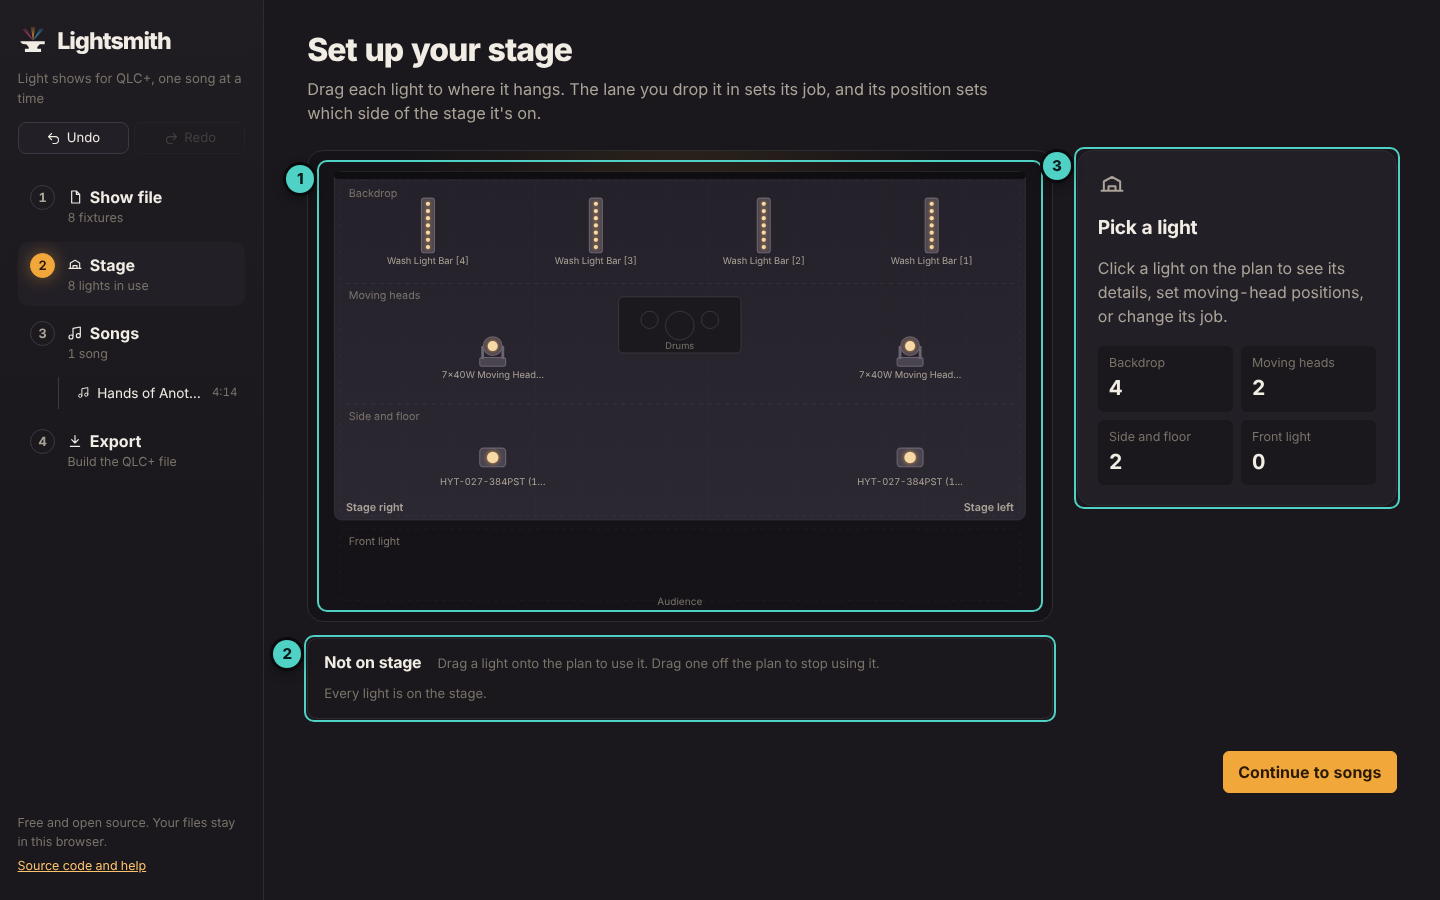
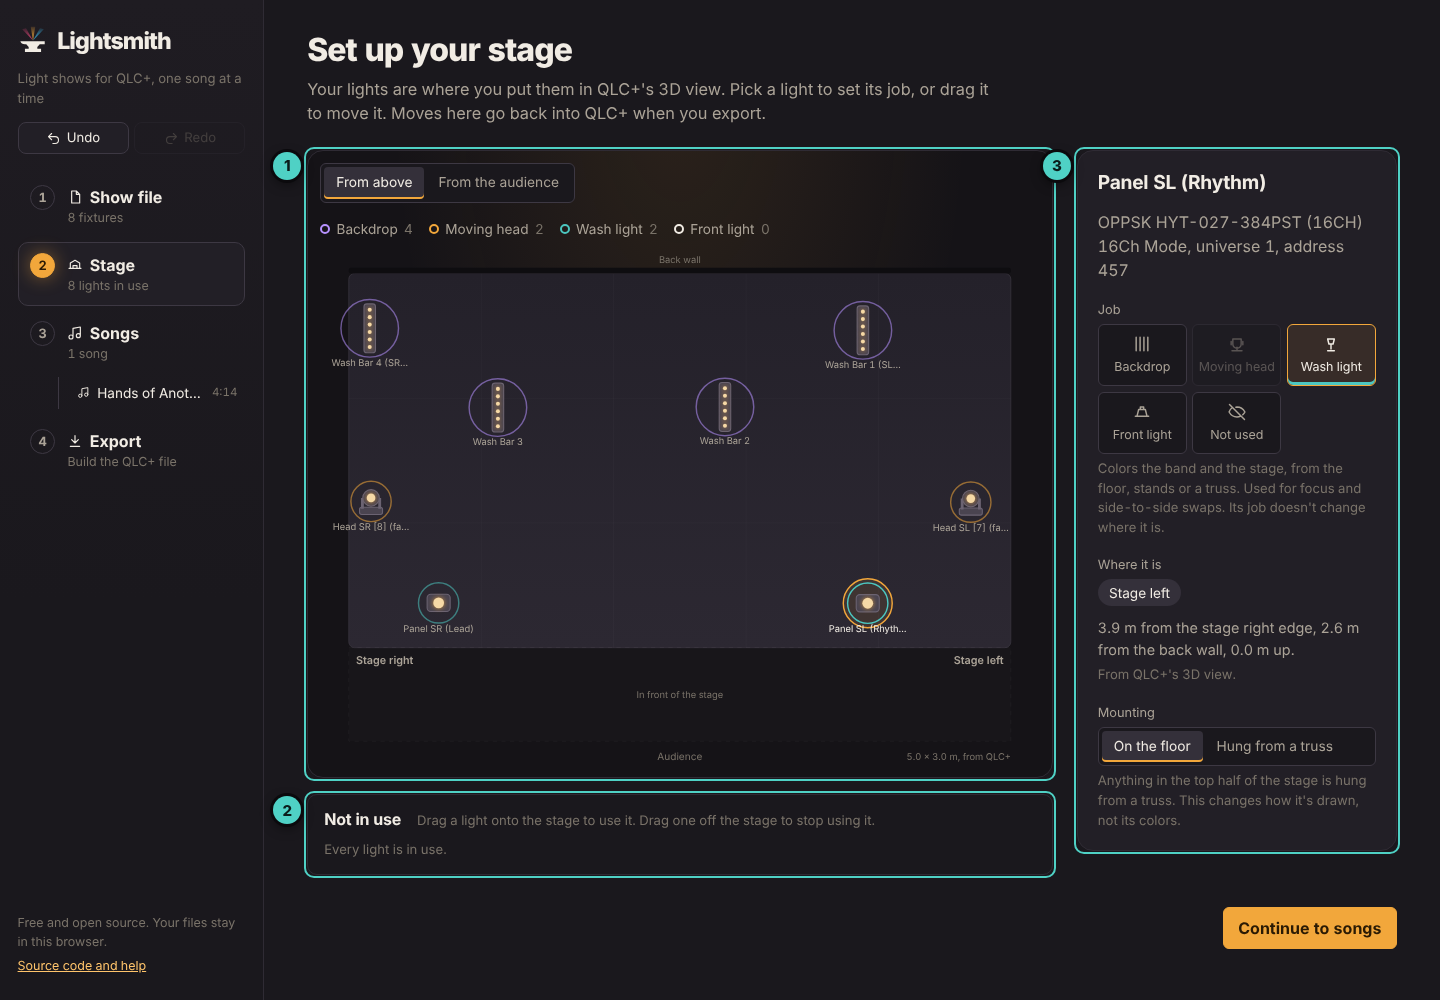
Course: the Stage page now copies QLC+'s 3D view
Updates the syllabus (data model, Show file, Stage and preview chapters)
and Chapter 1's Stage page description and screenshot. Also moves the
Stage right/left labels off the stage so they don't cover lights.

Claude-Session: https://claude.ai/code/session_011s6xTq7Q8K7Dc7AUzx6B84

diff --git a/src/ui/StagePage.tsx b/src/ui/StagePage.tsx
@@ -227,10 +227,10 @@ export function StagePage({ store, onNext }: { store: Store; onNext: () => void 
                   <text className="plan-note" x={VW / 2} y={TOP + DH + (DH * APRON) / 2 + 5}>
                     In front of the stage
                   </text>
-                  <text className="plan-side" x={MX + 10} y={TOP + DH - 12}>
+                  <text className="plan-side" x={MX + 10} y={TOP + DH + 22}>
                     Stage right
                   </text>
-                  <text className="plan-side" x={MX + DW - 10} y={TOP + DH - 12} textAnchor="end">
+                  <text className="plan-side" x={MX + DW - 10} y={TOP + DH + 22} textAnchor="end">
                     Stage left
                   </text>
                   <text className="plan-audience" x={VW / 2} y={ABOVE_VH - 8}>

diff --git a/course/00-syllabus.md b/course/00-syllabus.md
@@ -70,7 +70,7 @@ flowchart LR
 | 10. Store | Sequence: a click → `change()` → undo history → save; state diagram of undo with gestures |
 | 11. XML toolkit | XML text → token stream → element tree → text again |
 | 12. Show file | Annotated page screenshot; flowchart of `addFiles` routing each file type; how a fixture becomes a profile |
-| 13–14. Stage | Annotated page screenshot; how lanes and positions become roles, sides and order; sequence of a drag |
+| 13–14. Stage | Annotated page screenshot; how QLC+'s 3D view becomes positions, sides and order; job versus place; sequence of a drag |
 | 15–21. Songs | Annotated screenshot for each section; component tree of the Songs page; timeline resize and playback sequences; how a section's settings flow into the preview |
 | 22. Export | Annotated page screenshot; flowchart of `generateSong`; which QLC+ functions one section becomes; where the Virtual Console frame is placed |
 | 23. Deploying | The GitHub Actions pipeline, from push to live site |
@@ -284,7 +284,7 @@ flowchart LR
 - Presets as data tables: moods, colors, patterns, movements, effects, section types and song templates. Adding a choice without touching logic.
 - Defaults: `newSection`, `newSong`, `sectionsFromTemplate`, and the "works on any rig" principle.
 - Derived values as functions, not stored fields: `sectionMs`, `lengthLabel`, `colorLayoutOf`, `lightLevels`.
-- Where a light is mounted (`Mount`, `RigFixture.mount`): on the floor or hung from a truss. It changes how the light is drawn and set up, not its colors.
+- Where a light is, kept apart from what it does: `RigFixture.pos`, `height` and `upright`, and `mountOf` (on the floor, or hung from a truss when it's in the top half of the stage). The `moved` flag records a change made in Lightsmith. Position changes how a light is drawn and set up, never its colors.
 - Layered settings, from general to specific: the mood and energy, then each kind of light (`colorLayout`, `brightness`), then individual lights (`lights`, `LightSetting`, `lightSetting`, `sitsOut`). The most specific setting wins, and anything left out stays automatic.
 - Versioning and migration: `version: 1`, `normalizeSection`, and the Rain-to-Drizzle migration as a worked example. *Coming from PHP: like a database migration that runs on every load against data you don't control.*
 - IDs: how they're made today and why that changes later.
@@ -354,7 +354,7 @@ flowchart LR
 - File input and drag-and-drop in the browser; reading files as text.
 - Telling file types apart and routing each to the right parser (`addFiles` in the store).
 - Reading a workspace: fixtures, functions and fixture groups (`parseWorkspace`).
-- Reading QLC+ 5's 3D view (`<Monitor>`, `<Grid>`, `<FxItem YPos>`) to learn how high each fixture hangs, converting feet and millimetres to a share of the stage height (`WsFixture.height`).
+- Reading QLC+ 5's 3D view (`<Monitor>`, `<Grid>`, `<FxItem XPos YPos ZPos XRot YRot ZRot>`): the stage size, and where each fixture is across, back to front and up, converted from feet and millimetres to shares of the stage (`StageSize`, `Placement`, `readStage`). Working out from three rotations whether a bar stands on its end (`standsUp`). Why QLC+ 4's 2D view is skipped.
 - Reading a fixture definition and building a usable profile for the mode in use: master dimmer, color heads, pan/tilt, shutters (`parseFixtureDef`, `classifyChannel`, `buildProfile`). The "Colour" spelling trap.
 - The bundled QLC+ fixture library: a build-time sync script, an `index.json`, fetched on demand.
 - Status, empty and error states as first-class design.
@@ -372,15 +372,15 @@ flowchart LR
 
 ### Chapter 13. The Stage page: rig model and automatic layout
 
-**Goals.** Model what each light does on stage, and make a good first guess for any rig.
+**Goals.** Model where each light is and what it does, as two separate things, and make a good first guess for any rig.
 
-**On screen.** The stage plan as the page first shows it, with lights already placed in lanes.
+**On screen.** The stage as the page first shows it: every light where QLC+'s 3D view has it, each with a job already guessed.
 
 **Concepts.**
-- The rig: each fixture's job (backdrop, moving head, side and floor, front, not used), side, order and position.
-- Guessing roles from fixture profiles (`guessRole`, `guessRig`) while keeping anything the user changed.
-- Guessing the mounting from height (`guessMount`): above half the stage height starts as hung from a truss.
-- Default positions and lanes (`ROLE_ROW`, `defaultPosition`); working out side and order from position (`settleRig`, `stageOrder`).
+- The rig: each fixture's job (backdrop, moving head, wash light, front, not used), and separately its place, side and order.
+- Which source wins for a light's place: a move made in Lightsmith, then QLC+'s 3D view, then an automatic layout (`guessRig`). Loading a show file again clears the moves, so QLC+ is the source of truth.
+- Guessing jobs from what a fixture can do and where it is (`guessRole`, `isBar`): a moving head is a moving head anywhere; a light in front of the stage starts as a front light.
+- The automatic layout for shows with no 3D view (`ROLE_ROW`, `defaultPosition`); working out side and order from position (`settleRig`, `stageOrder`).
 - The sync effect that keeps the rig in step with the workspace.
 
 **Files.** `src/core/rig.ts`, `src/ui/store.ts` (rig sync effect).
@@ -391,19 +391,21 @@ flowchart LR
 
 ### Chapter 14. The Stage page: the plan, dragging and the inspector
 
-**Goals.** Build an interactive stage plan users can arrange by dragging.
+**Goals.** Build an interactive stage users can check against the real thing and adjust by dragging.
 
 **On screen.**
-- **The lanes.** Backdrop, Moving heads, Side and floor, Front.
-- **Light glyphs.** Bars, moving heads, pars and front lights drawn in SVG, with labels.
-- **Dragging.** Moving a light along or between lanes.
+- **Two views.** From above (across and back to front, at QLC+'s stage size, with a metre grid) and from the audience (across and up, with the truss).
+- **Light glyphs.** Bars (standing up or lying flat), moving heads, pars and front lights drawn in SVG, each with a colored ring for its job, and a legend.
+- **Dragging.** Moving a light changes only where it is, never its job.
 - **The tray.** Lights not in use.
-- **The inspector.** The selected light's details, job buttons, side, mounting (on the floor or hung from a truss), moving-head home pan/tilt, and the reverse switch.
-- **Hung lights** show a hanger on the plan, and hung moving heads are drawn upside down.
+- **The inspector.** The selected light's details, job buttons, where it is in metres or feet, "Put it back where QLC+ has it", mounting, which way a bar stands, moving-head home pan/tilt, and the reverse switch.
+- **Hung lights** show a hanger from above and hang from the truss from the audience; hung moving heads are drawn upside down.
+- **Writing back.** On export, lights moved here are moved in QLC+'s 3D view too (`writePlaces`).
 
 **Concepts.**
 - Pointer events for dragging: start, track on `window`, end, and telling a click from a drag by distance.
-- SVG in React: coordinates, groups and responsive sizing.
+- SVG in React: coordinates, groups and responsive sizing; mapping between stage shares and screen points in two different views.
+- Separating identity ("what it does") from geometry ("where it is") in a UI, and why mixing them confused real users.
 - Selection state and an inspector panel.
 - Saving only on release, so a drag is one undo step.
 
@@ -474,6 +476,7 @@ The Songs page is the heart of the app, so it gets several chapters, one per are
 - SMIL animation timed to tempo; a visual brightness mapping.
 - Mirroring the export's rules so the preview tells the truth.
 - Hung lights: bodies hanging from the truss, cones pointing down to pools on the floor, and moving-head beams that sweep from above.
+- Drawing each light at its real depth, and bars lying flat on their side.
 - Floating windows through portals, with a remembered position.
 - The settings-card pattern (`Group`) that every section below uses.
 

diff --git a/course/01-what-were-building.md b/course/01-what-were-building.md
@@ -88,7 +88,7 @@ This matters more than it sounds. It's why Lightsmith's effects are set to *add*
 | Fixture | Count | Mode | Job in Lightsmith |
 |---|---|---|---|
 | Amazon Wash Light Bar | 4 | 114 channels, many heads | **Backdrop:** a vertical wall of light behind the band |
-| OPPSK HYT-027 LED panel | 2 | 16 channels | **Side and floor:** washes on the players (stage left on the rhythm guitarist, stage right on the lead) |
+| OPPSK HYT-027 LED panel | 2 | 16 channels | **Wash light:** washes on the players (stage left on the rhythm guitarist, stage right on the lead) |
 | JCYW Flody moving head | 2 | 58 channels | **Moving heads:** beams that sweep and point |
 
 Lightsmith never assumes this rig. Another band might have no backdrop, eight pars and a single moving head. Every feature has to work out what it can do from whatever lights are there, a principle you'll see in the rig code (Chapters 13 and 14).
@@ -167,11 +167,11 @@ Lightsmith has four steps, shown in the left menu, and you go through them in or
 
 ![The Stage page](images/ch01-stage.png)
 
-1. **The stage plan,** seen from above, with lanes for each job: Backdrop, Moving heads, Side and floor, and Front light. Lightsmith makes a first guess; the user drags lights to fix it. The lane decides a light's job, and its position decides which side of the stage it's on.
+1. **The stage,** seen from above or from the audience, with every light where QLC+'s 3D view has it. Each light has a job (Backdrop, Moving head, Wash light or Front light), shown as a colored ring. Lightsmith guesses the jobs; the user can change them, and can drag a light to move it. Where a light is decides which side of the stage it's on, but never its job.
 2. **The tray** for lights that aren't used.
 3. **The inspector.** Details of the selected light, its job, moving-head home positions and more. With nothing selected, it shows a summary of the rig.
 
-**Takes in:** the light profiles. **Produces:** the **rig**: each light's job, side, order and position.
+**Takes in:** the light profiles and QLC+'s 3D view. **Produces:** the **rig**: each light's job, and its position, height, side and order.
 
 ### Page 3: Songs
 
